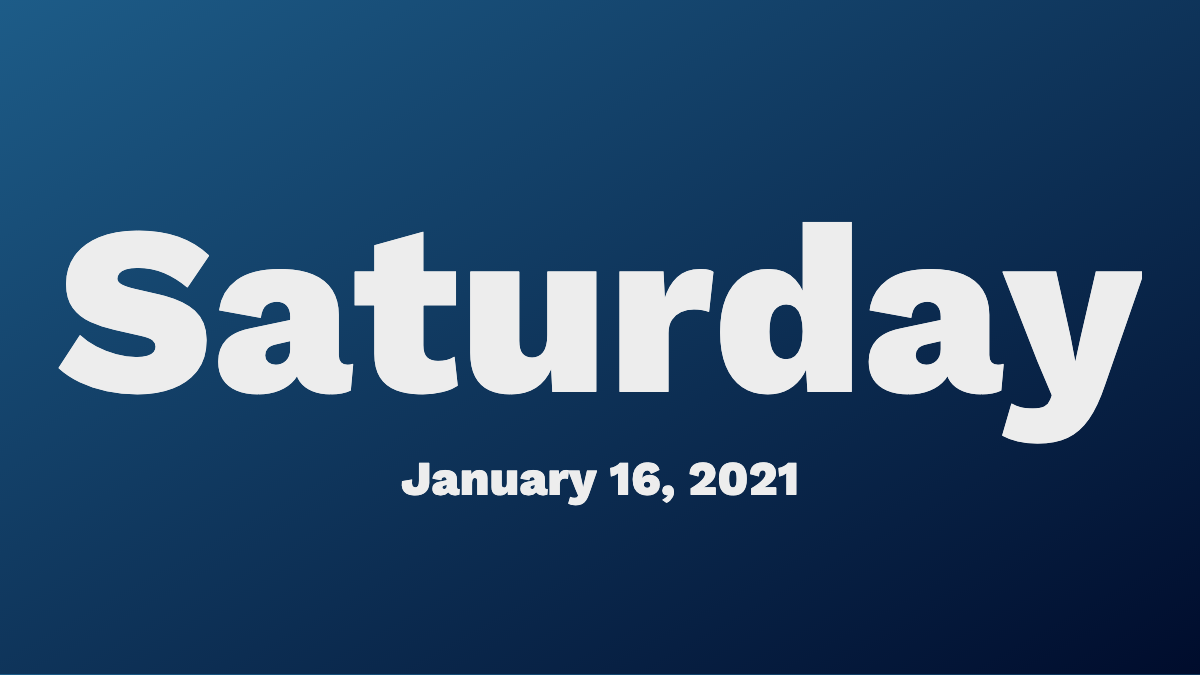
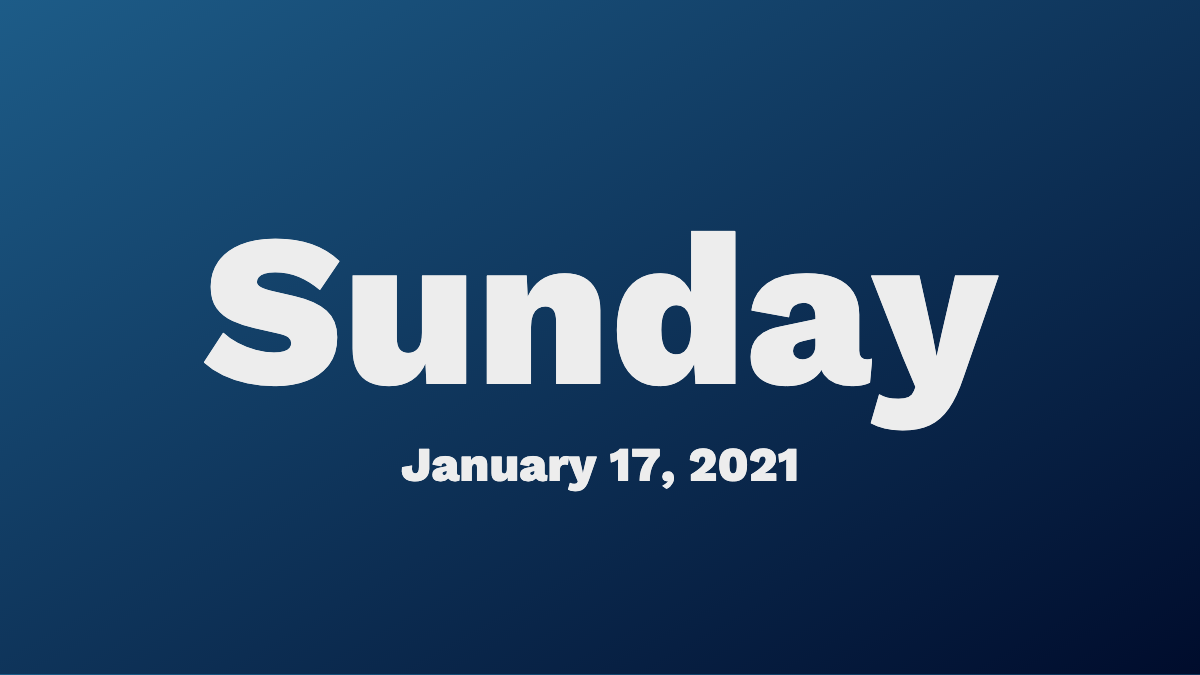
Updating

Changed region(s): [[0.0308, 0.3111, 0.9558, 0.6533], [0.3083, 0.6533, 0.6783, 0.7467]]

diff --git a/site/index.html b/site/index.html
@@ -36,7 +36,7 @@
     }
     .today {
       color: #eee;
-      font-size: 20vw;
+      font-size: 18vw;
       padding: 0 1vw;
       font-weight: bold;
       overflow: hidden;

diff --git a/README.md b/README.md
@@ -10,4 +10,4 @@ This is a demo to show how a Github Action can create a dynamic social media sha
 
 ## License
 
-To thrill!
+MIT
